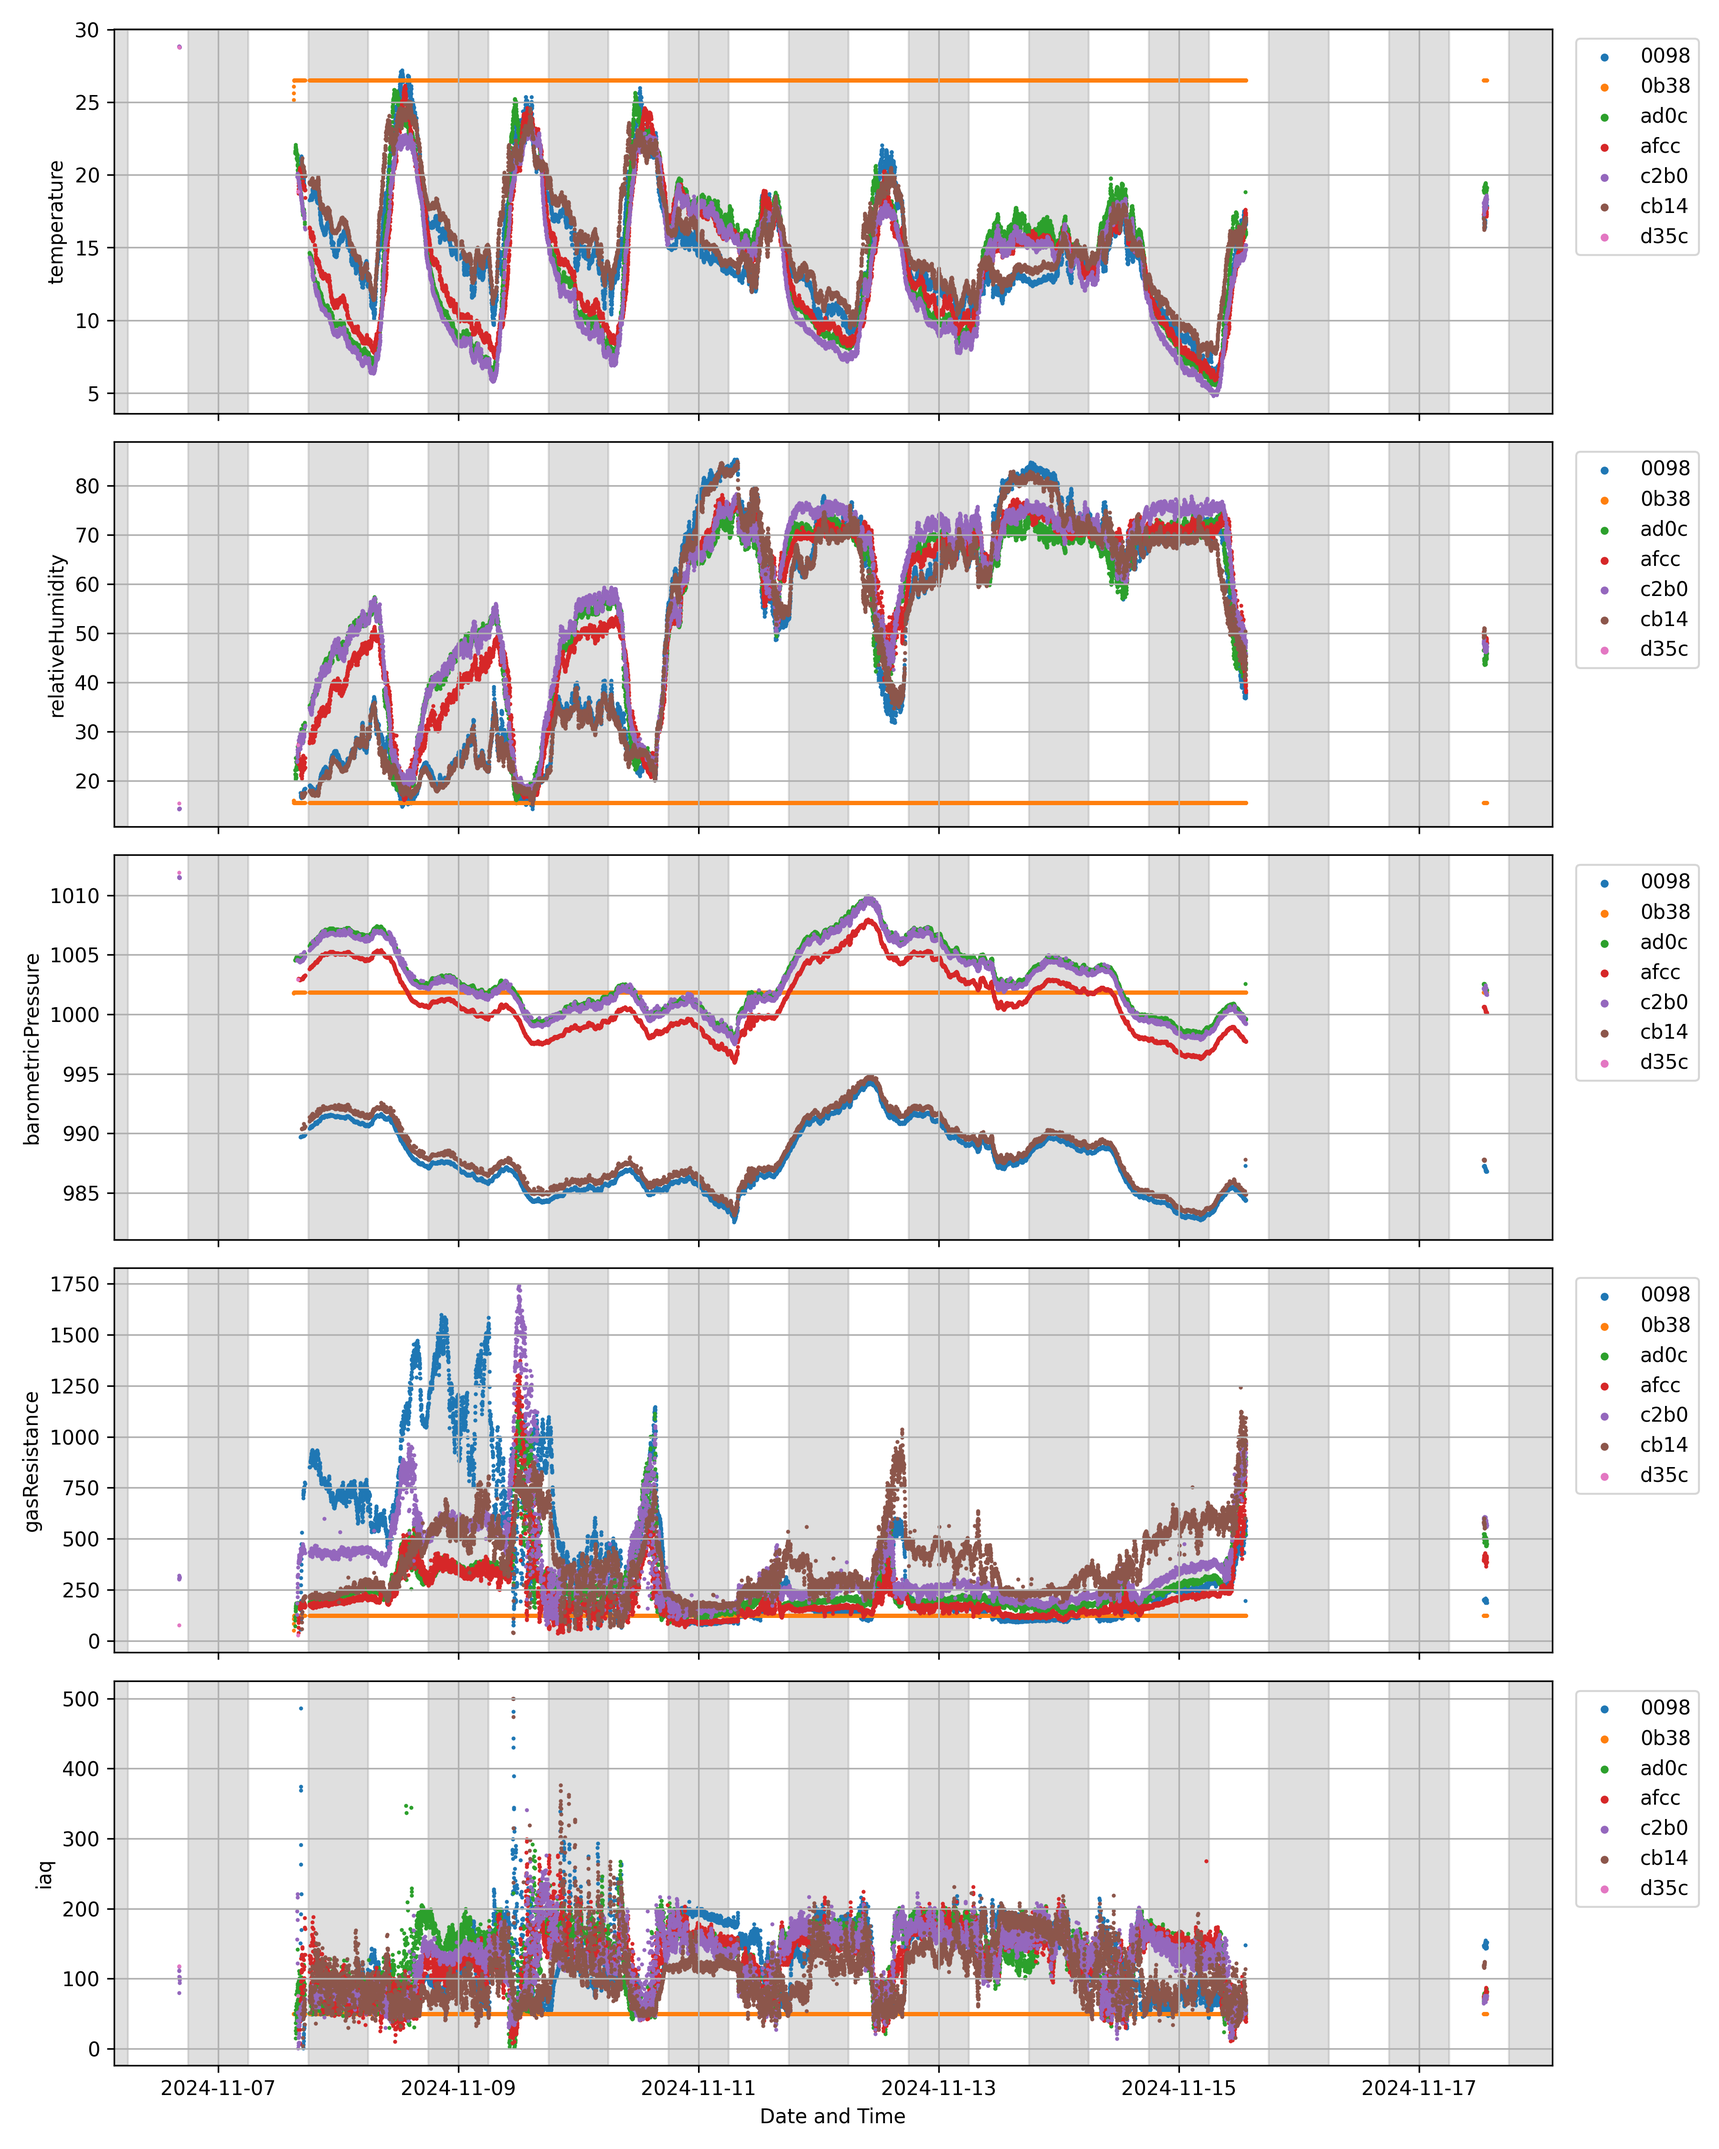
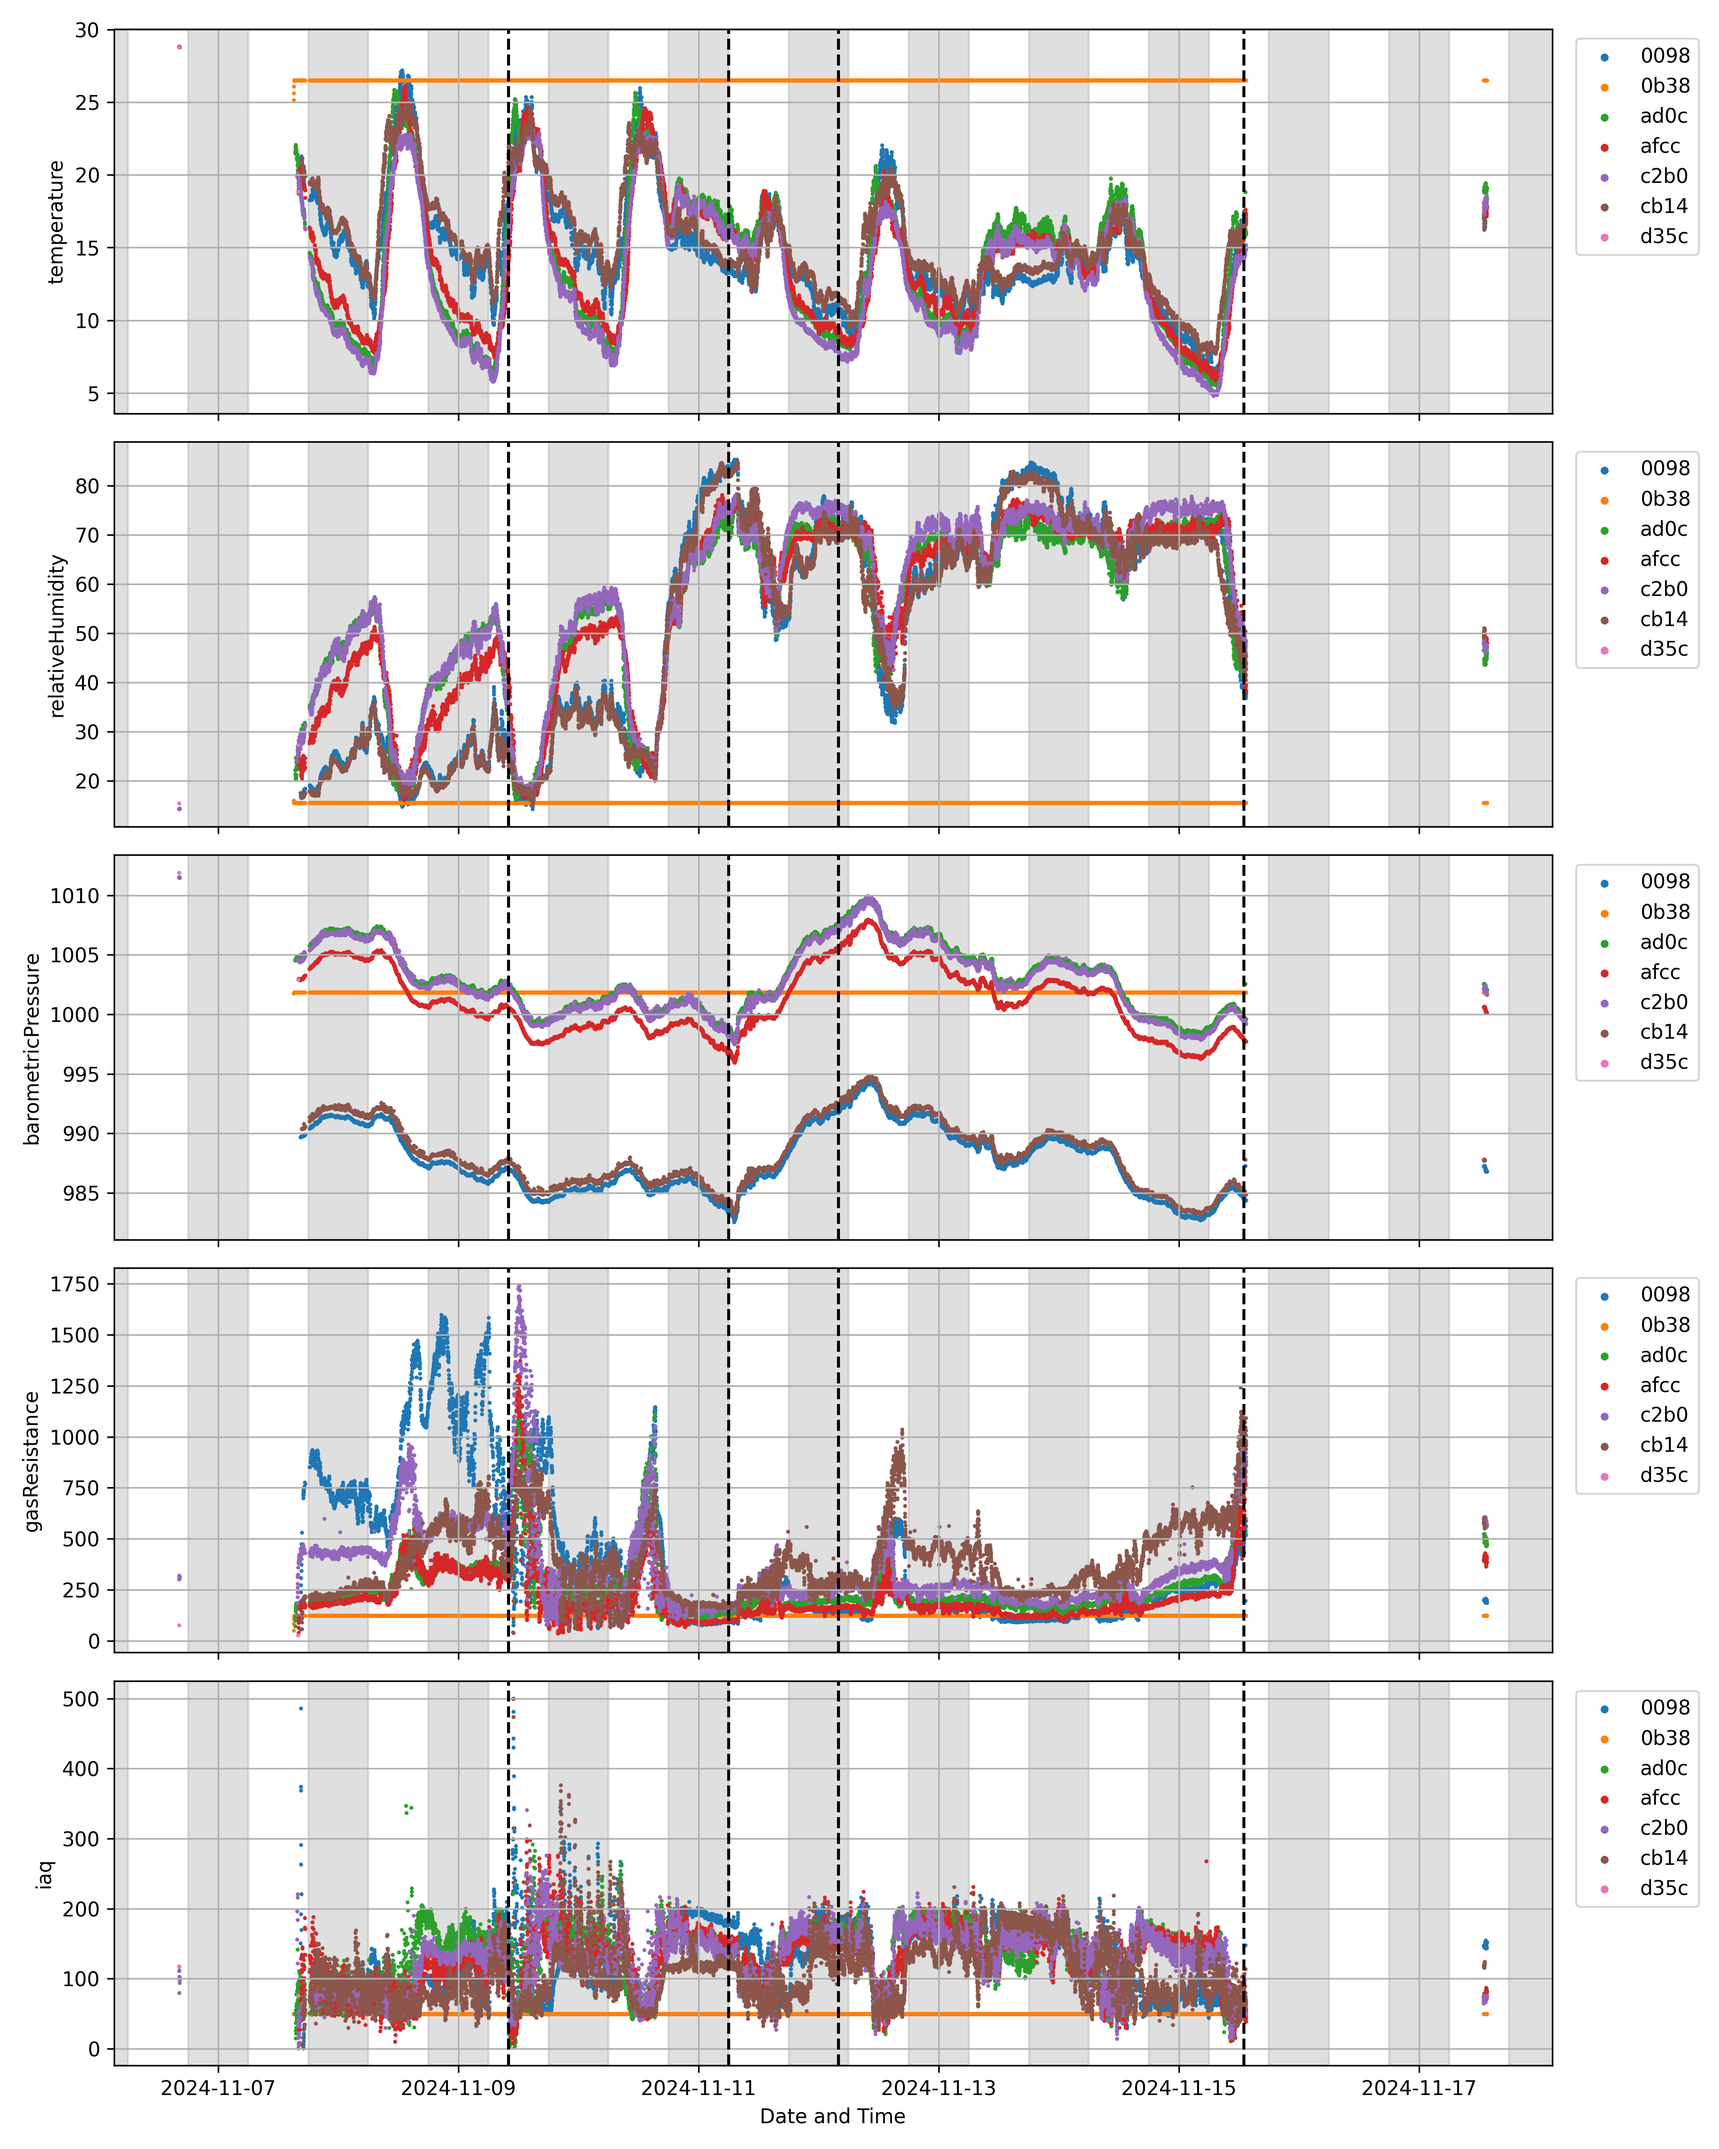
Annotations and color

diff --git a/src/gen_visuals_script.py b/src/gen_visuals_script.py
@@ -7,6 +7,11 @@ import pathlib         # Nicer IO than the os library
 # Custom imports
 from data_parsing import read_csv_data_from_logger
 from smesh_plots import plot_all_sensor_variables
+from terminal_utils import with_color
+
+########################################################
+#  Sensor Configuration (should be in a yml file)
+########################################################
 
 # Global variables since the pepperwood code version does not include headers
 # It would also be possible to put this in a config.yml or similar format.
@@ -17,7 +22,7 @@ SENSOR_HEADERS = {
     "device_metrics":   ['batteryLevel', 'voltage', 'channelUtilization', 'airUtilTx'],
     "bme688":           ['temperature', 'relativeHumidity', 'barometricPressure', 'gasResistance', 'iaq'],
     "ina260":           ['ch3Voltage', 'ch3Current'],
-    "pmsa003i":         ['pm10Standard', 'pm25Standard', 'pm100Standard', 'pm10Environmental', 'pm25Environmental', 'pm100Environmental']
+    "pmsa003i":         ['pm10Standard', 'pm25Standard', 'pm100Standard', 'pm10Environmental', 'pm25Environmental', 'pm100Environmental'],
 }
 SENSOR_NAMES = SENSOR_HEADERS.keys()
 
@@ -30,6 +35,24 @@ DATAFOLDERPATH = 'data/'
 LOGGER = "62e4"
 PLOTFOLDERPATH = 'plots/'
 DPI = 300
+
+LOG_Y_NAMES = ["pmsa003i"]
+
+########################################################
+# Events Configuration (should be in a yml file)
+########################################################
+
+EVENT_DATETIMES = [
+    # Year, Month, Day, Time
+    datetime.datetime(2024, 11, 9, 10), # Start of the burn
+    datetime.datetime(2024, 11, 11, 6), # Start of the rain
+    datetime.datetime(2024, 11, 12, 4), # WIFI disconnection
+    datetime.datetime(2024, 11, 15, 13), # Last Logger Data
+]
+
+########################################################
+# Main (should integrate with tyro)
+########################################################
 
 # Check that the folder exists
 assert pathlib.Path(DATAFOLDERPATH).is_dir(), \
@@ -44,9 +67,23 @@ print(f"[{datetime.datetime.now()}] Data loaded!")
 
 ## Plotting
 for sensor in SENSOR_NAMES:
-    print(f"[{datetime.datetime.now()}] Plotting {sensor}...")
+    print(f"[{datetime.datetime.now()}] Plotting {with_color(sensor)}...")
     fig, axes = plot_all_sensor_variables(pepperwood_data_dfs, sensor=sensor,
-                                          sensor_headers=SENSOR_HEADERS)
+                                          sensor_headers=SENSOR_HEADERS,
+                                          event_datetimes=EVENT_DATETIMES)
     fig.savefig(f"{PLOTFOLDERPATH}{sensor}_all_vars.png", dpi=DPI)
     plt.close(fig)
-    print(f"[{datetime.datetime.now()}] {sensor} plotted!")
+
+    print(f"[{datetime.datetime.now()}] ... {sensor} plotted!")
+
+# Not plot pmsa with logy scale
+for sensor in LOG_Y_NAMES:
+    print(f"[{datetime.datetime.now()}] Plotting {with_color(sensor)} with logy scale...")
+    fig, axes = plot_all_sensor_variables(pepperwood_data_dfs, sensor=sensor,
+                                          sensor_headers=SENSOR_HEADERS,
+                                          event_datetimes=EVENT_DATETIMES,
+                                          logy=True)
+    fig.savefig(f"{PLOTFOLDERPATH}{sensor}_all_vars_logy.png", dpi=DPI)
+    plt.close(fig)
+
+    print(f"[{datetime.datetime.now()}] ... {sensor} plotted with logy scale!")

diff --git a/src/data_parsing.py b/src/data_parsing.py
@@ -2,6 +2,9 @@ import datetime
 import pathlib         # Nicer IO than the os library
 import pandas as pd
 
+# Custom imports
+from terminal_utils import with_color
+
 def read_csv_data_from_logger(logger: str, folderpath: str, 
                               sensor_list: list,
                               data_headers: dict,
@@ -24,7 +27,8 @@ def read_csv_data_from_logger(logger: str, folderpath: str,
     data_dfs = {}
 
     for sensor in sensor_list:
-        print(f"[{datetime.datetime.now()}] Trying to open data for", sensor)
+        print(f"[{datetime.datetime.now()}] Trying to open data for " + \
+              with_color(sensor) + "...")
         data_path = pathlib.Path(folderpath + logger + "_" + sensor + extension)
         if not data_path.exists():
             print(f"Current working directory: {pathlib.Path.cwd()}")
@@ -41,6 +45,6 @@ def read_csv_data_from_logger(logger: str, folderpath: str,
         # Include the short name out of convenience
         data_dfs[sensor]['from_short_name'] = data_dfs[sensor]['from_node'].str[-4:]
 
-        print(f"[{datetime.datetime.now()}] Sensor completed!\n")
+        print(f"[{datetime.datetime.now()}] ... Sensor completed!")
 
     return data_dfs

diff --git a/src/smesh_plots.py b/src/smesh_plots.py
@@ -11,7 +11,9 @@ import datetime
 
 
 def plot_all_sensor_variables(data_dict: dict, sensor: str,
-                              sensor_headers: dict):
+                              sensor_headers: dict,
+                              event_datetimes: list = None,
+                              logy: bool = False) -> tuple:
     """
     Plot each sensor variable by row
     """
@@ -36,6 +38,13 @@ def plot_all_sensor_variables(data_dict: dict, sensor: str,
         axes[var_id].set_ylabel(sensed_var)
         axes[var_id].legend(bbox_to_anchor=(1.01, 1), loc='upper left',
                             markerscale=3)
+        
+        if event_datetimes is not None:
+            for event_time in event_datetimes:
+                axes[var_id].axvline(x=event_time, color='k', linestyle='--')
+
+        if logy:
+            axes[var_id].set_yscale('log')
 
         # if var_id == 0:
         #     axes[var_id].legend(bbox_to_anchor=(1.05, 1), loc='upper left')

diff --git a/src/terminal_utils.py b/src/terminal_utils.py
@@ -1,0 +1,5 @@
+COLOR_START = '\033[96m'
+COLOR_END = '\033[0m'
+
+def with_color(text: str, color: str = COLOR_START) -> str:
+    return color + str(text) + COLOR_END
